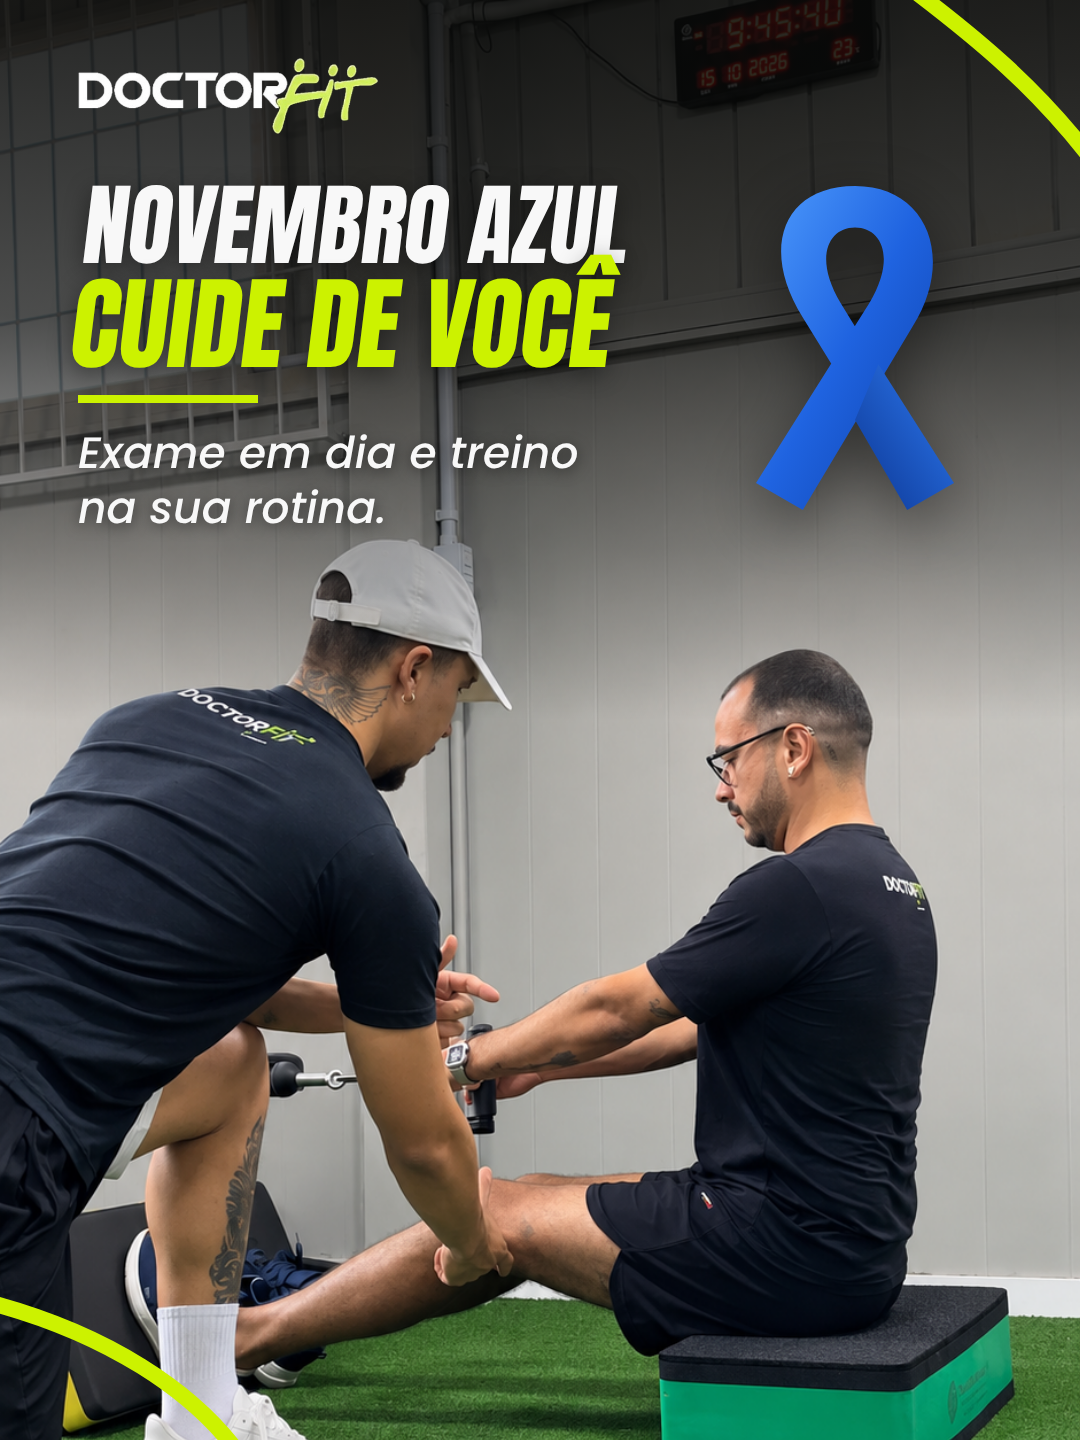
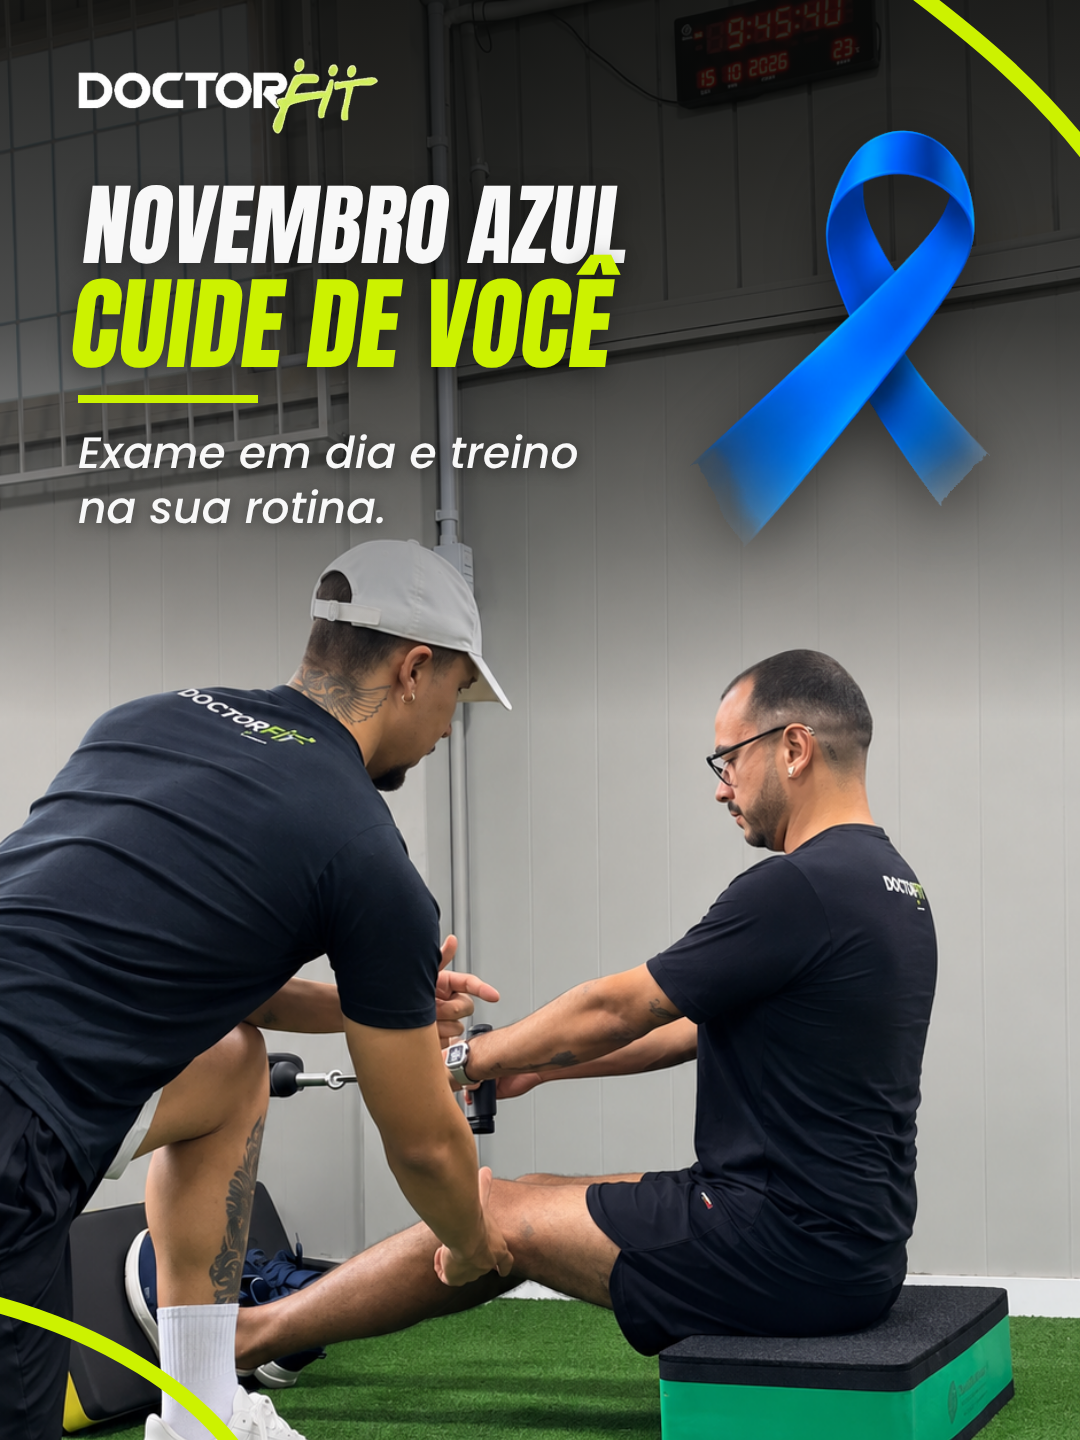
Capa Novembro Azul com o laço da referência
Claude-Session: https://claude.ai/code/session_012bVqEb5M2bw1tnz2qQiCDo

Changed region(s): [[0.6417, 0.0938, 0.9167, 0.375]]

diff --git a/doctorfit/capas/novembro_azul/capa2.html b/doctorfit/capas/novembro_azul/capa2.html
@@ -9,18 +9,13 @@ html,body{width:1080px;height:1440px;overflow:hidden;background:#0c0c0c}
 .l1{font-size:90px;color:#f8f8f8}.l2{font-size:102px;color:#ccf200}
 .traco{position:absolute;left:78px;top:395px;width:180px;height:8px;background:#ccf200}
 .sub{position:absolute;left:78px;top:425px;font-family:Poppins;font-style:italic;font-weight:500;font-size:44px;line-height:1.25;color:#f8f8f8;text-shadow:0 3px 14px rgba(0,0,0,.5)}
-.laco{position:absolute;left:720px;top:150px;width:270px;filter:drop-shadow(0 18px 30px rgba(0,0,0,.45))}
+.laco{position:absolute;left:690px;top:130px;width:300px;filter:drop-shadow(0 18px 30px rgba(0,0,0,.45))}
 .curva{position:absolute;inset:0;pointer-events:none}
 </style></head><body><div class="f"></div><div class="g"></div>
 <img class="logo" src="logo.png">
 <div class="tit"><div class="l1">Novembro Azul</div><div class="l2">Cuide de você</div></div>
 <div class="traco"></div>
 <div class="sub">Exame em dia e treino<br>na sua rotina.</div>
-<svg class="laco" viewBox="0 0 300 420"><defs>
-<linearGradient id="a" x1="0" y1="0" x2="1" y2="1"><stop offset="0" stop-color="#4f9dff"/><stop offset=".5" stop-color="#1f63e0"/><stop offset="1" stop-color="#0d3fa8"/></linearGradient>
-<linearGradient id="b" x1="1" y1="0" x2="0" y2="1"><stop offset="0" stop-color="#2f7bf2"/><stop offset="1" stop-color="#0b3592"/></linearGradient></defs>
-<path d="M150 40 C 230 40, 262 120, 214 196 L 92 400 L 40 370 L 166 170 C 196 120, 180 86, 150 86 C 120 86, 104 120, 134 170 L 150 196 L 124 238 L 92 186 C 44 110, 70 40, 150 40 Z" fill="url(#a)"/>
-<path d="M176 238 L 260 370 L 208 400 L 150 300 Z" fill="url(#b)"/>
-</svg>
+<img class="laco" src="laco_final.png">
 <svg class="curva" viewBox="0 0 1080 1440"><path d="M900 -20 C 980 40, 1040 90, 1100 170" stroke="#ccf200" stroke-width="16" fill="none" stroke-linecap="round"/><path d="M-20 1300 C 100 1330, 200 1390, 250 1470" stroke="#ccf200" stroke-width="16" fill="none" stroke-linecap="round"/></svg>
 </body></html>
